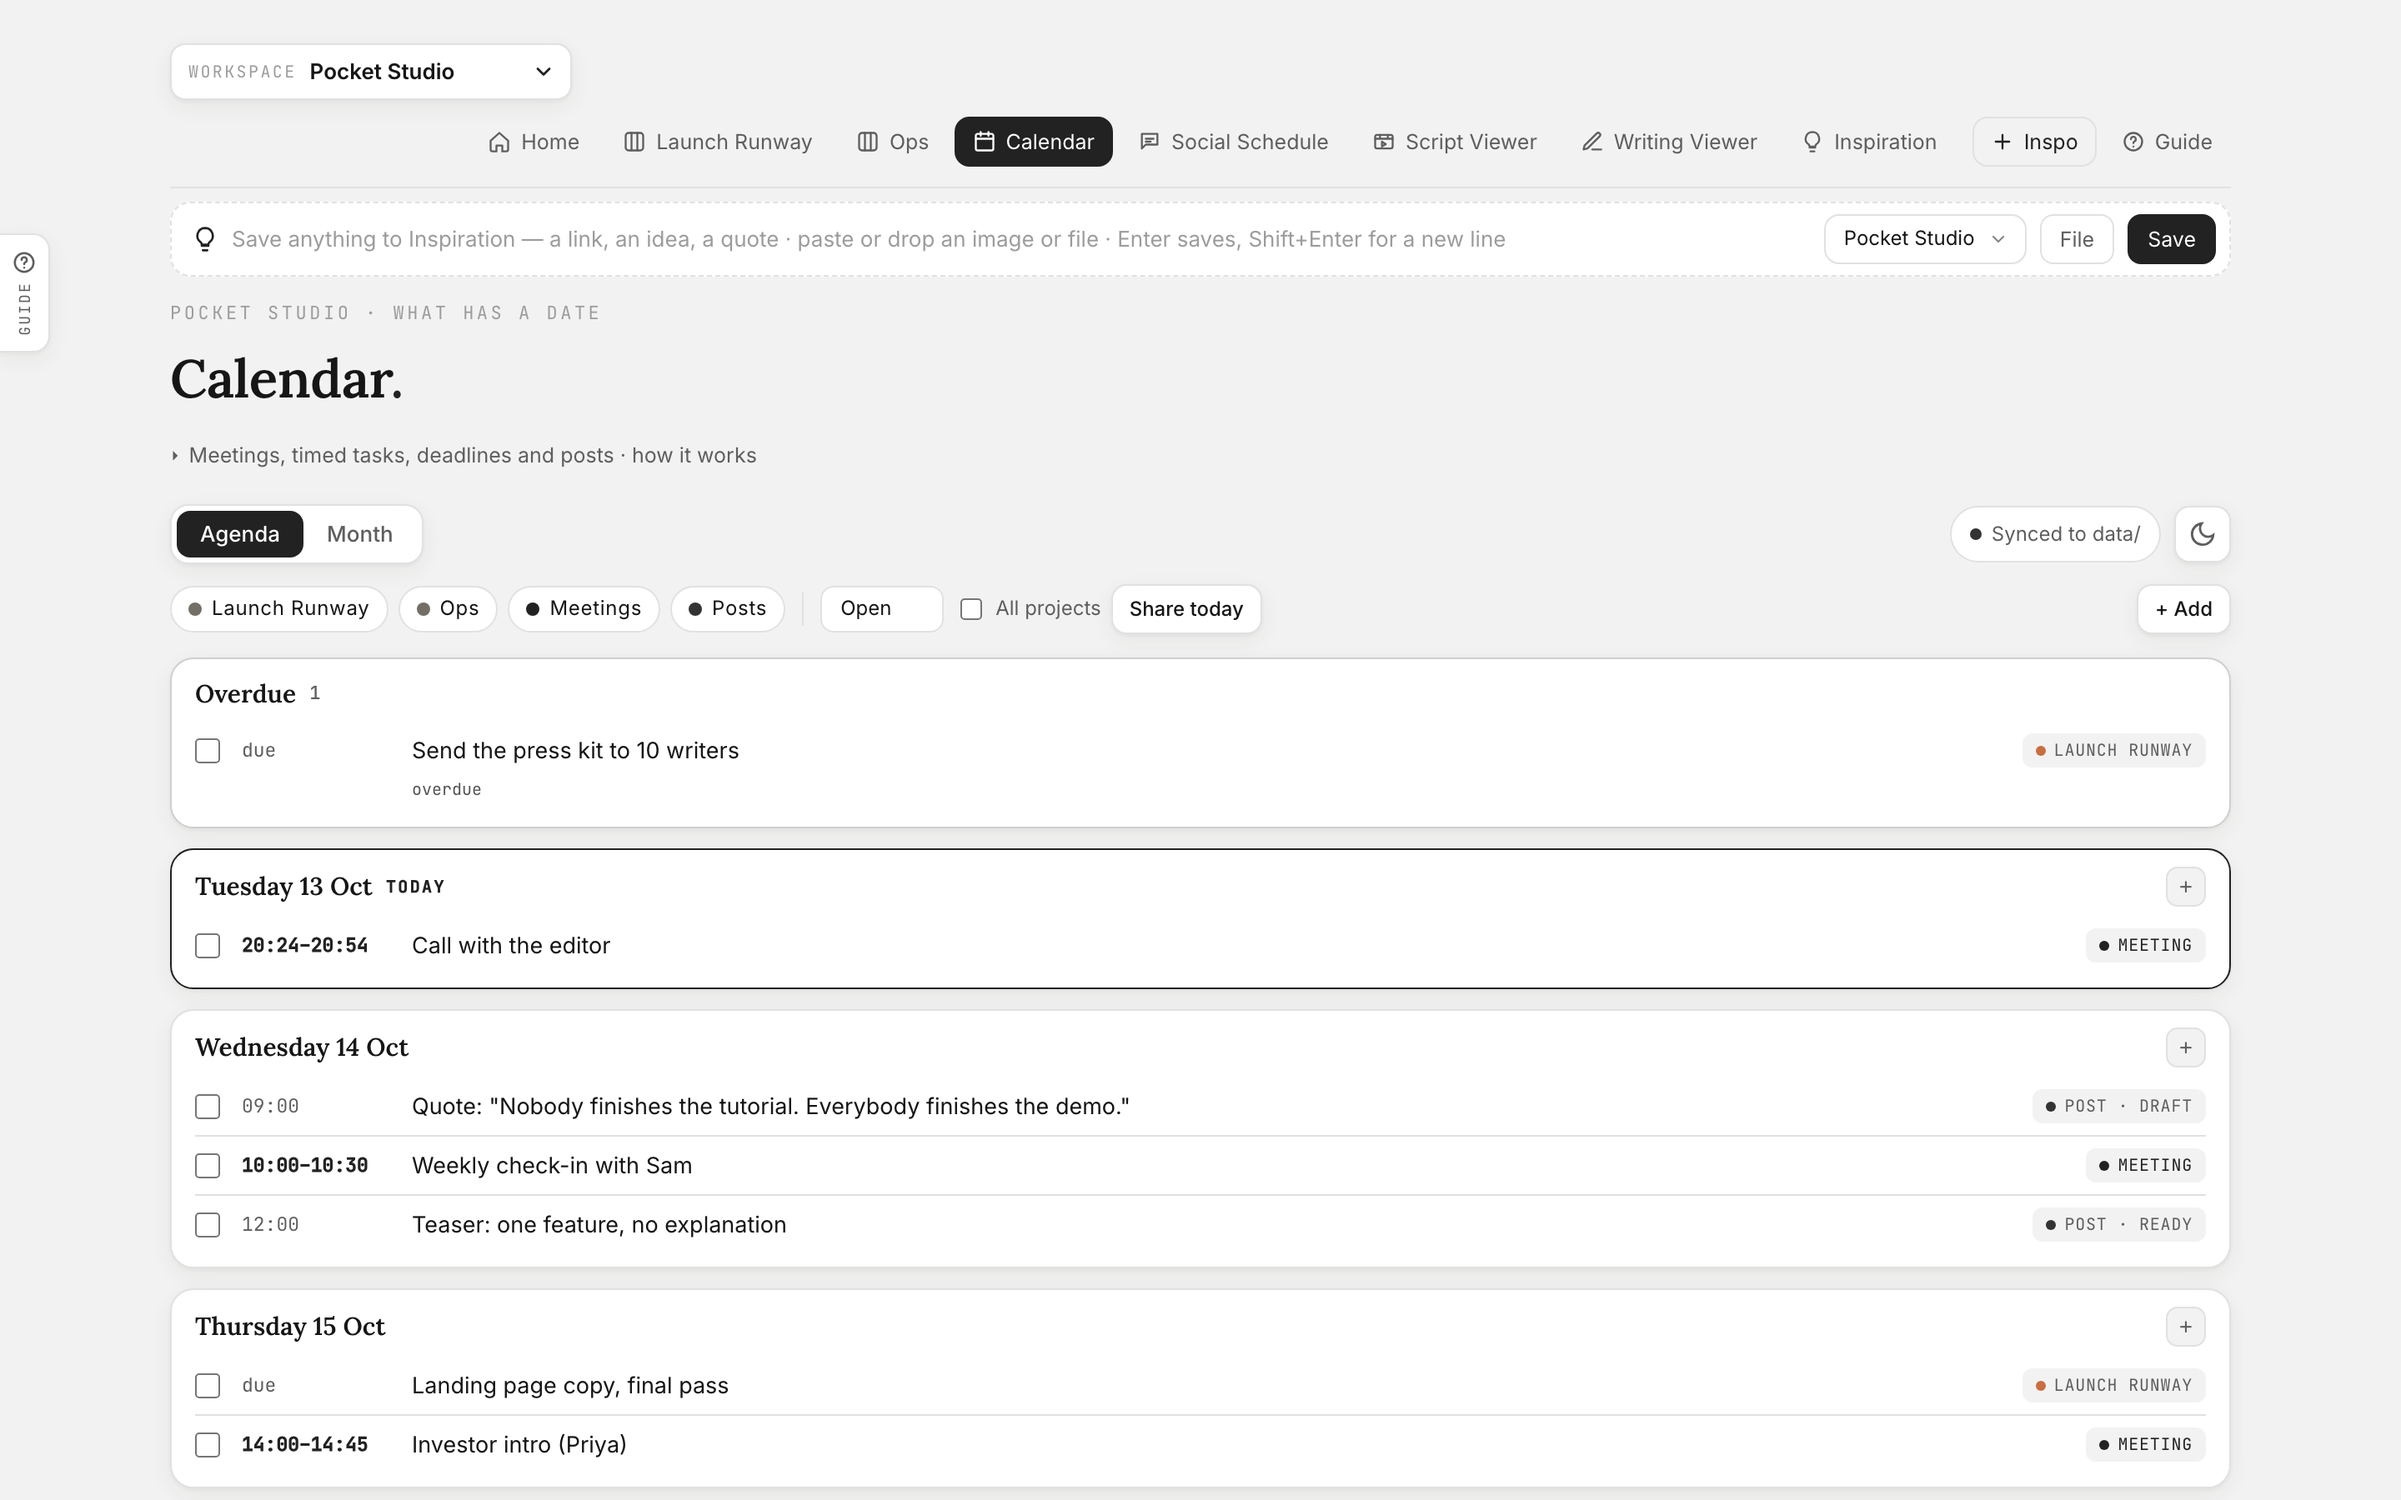
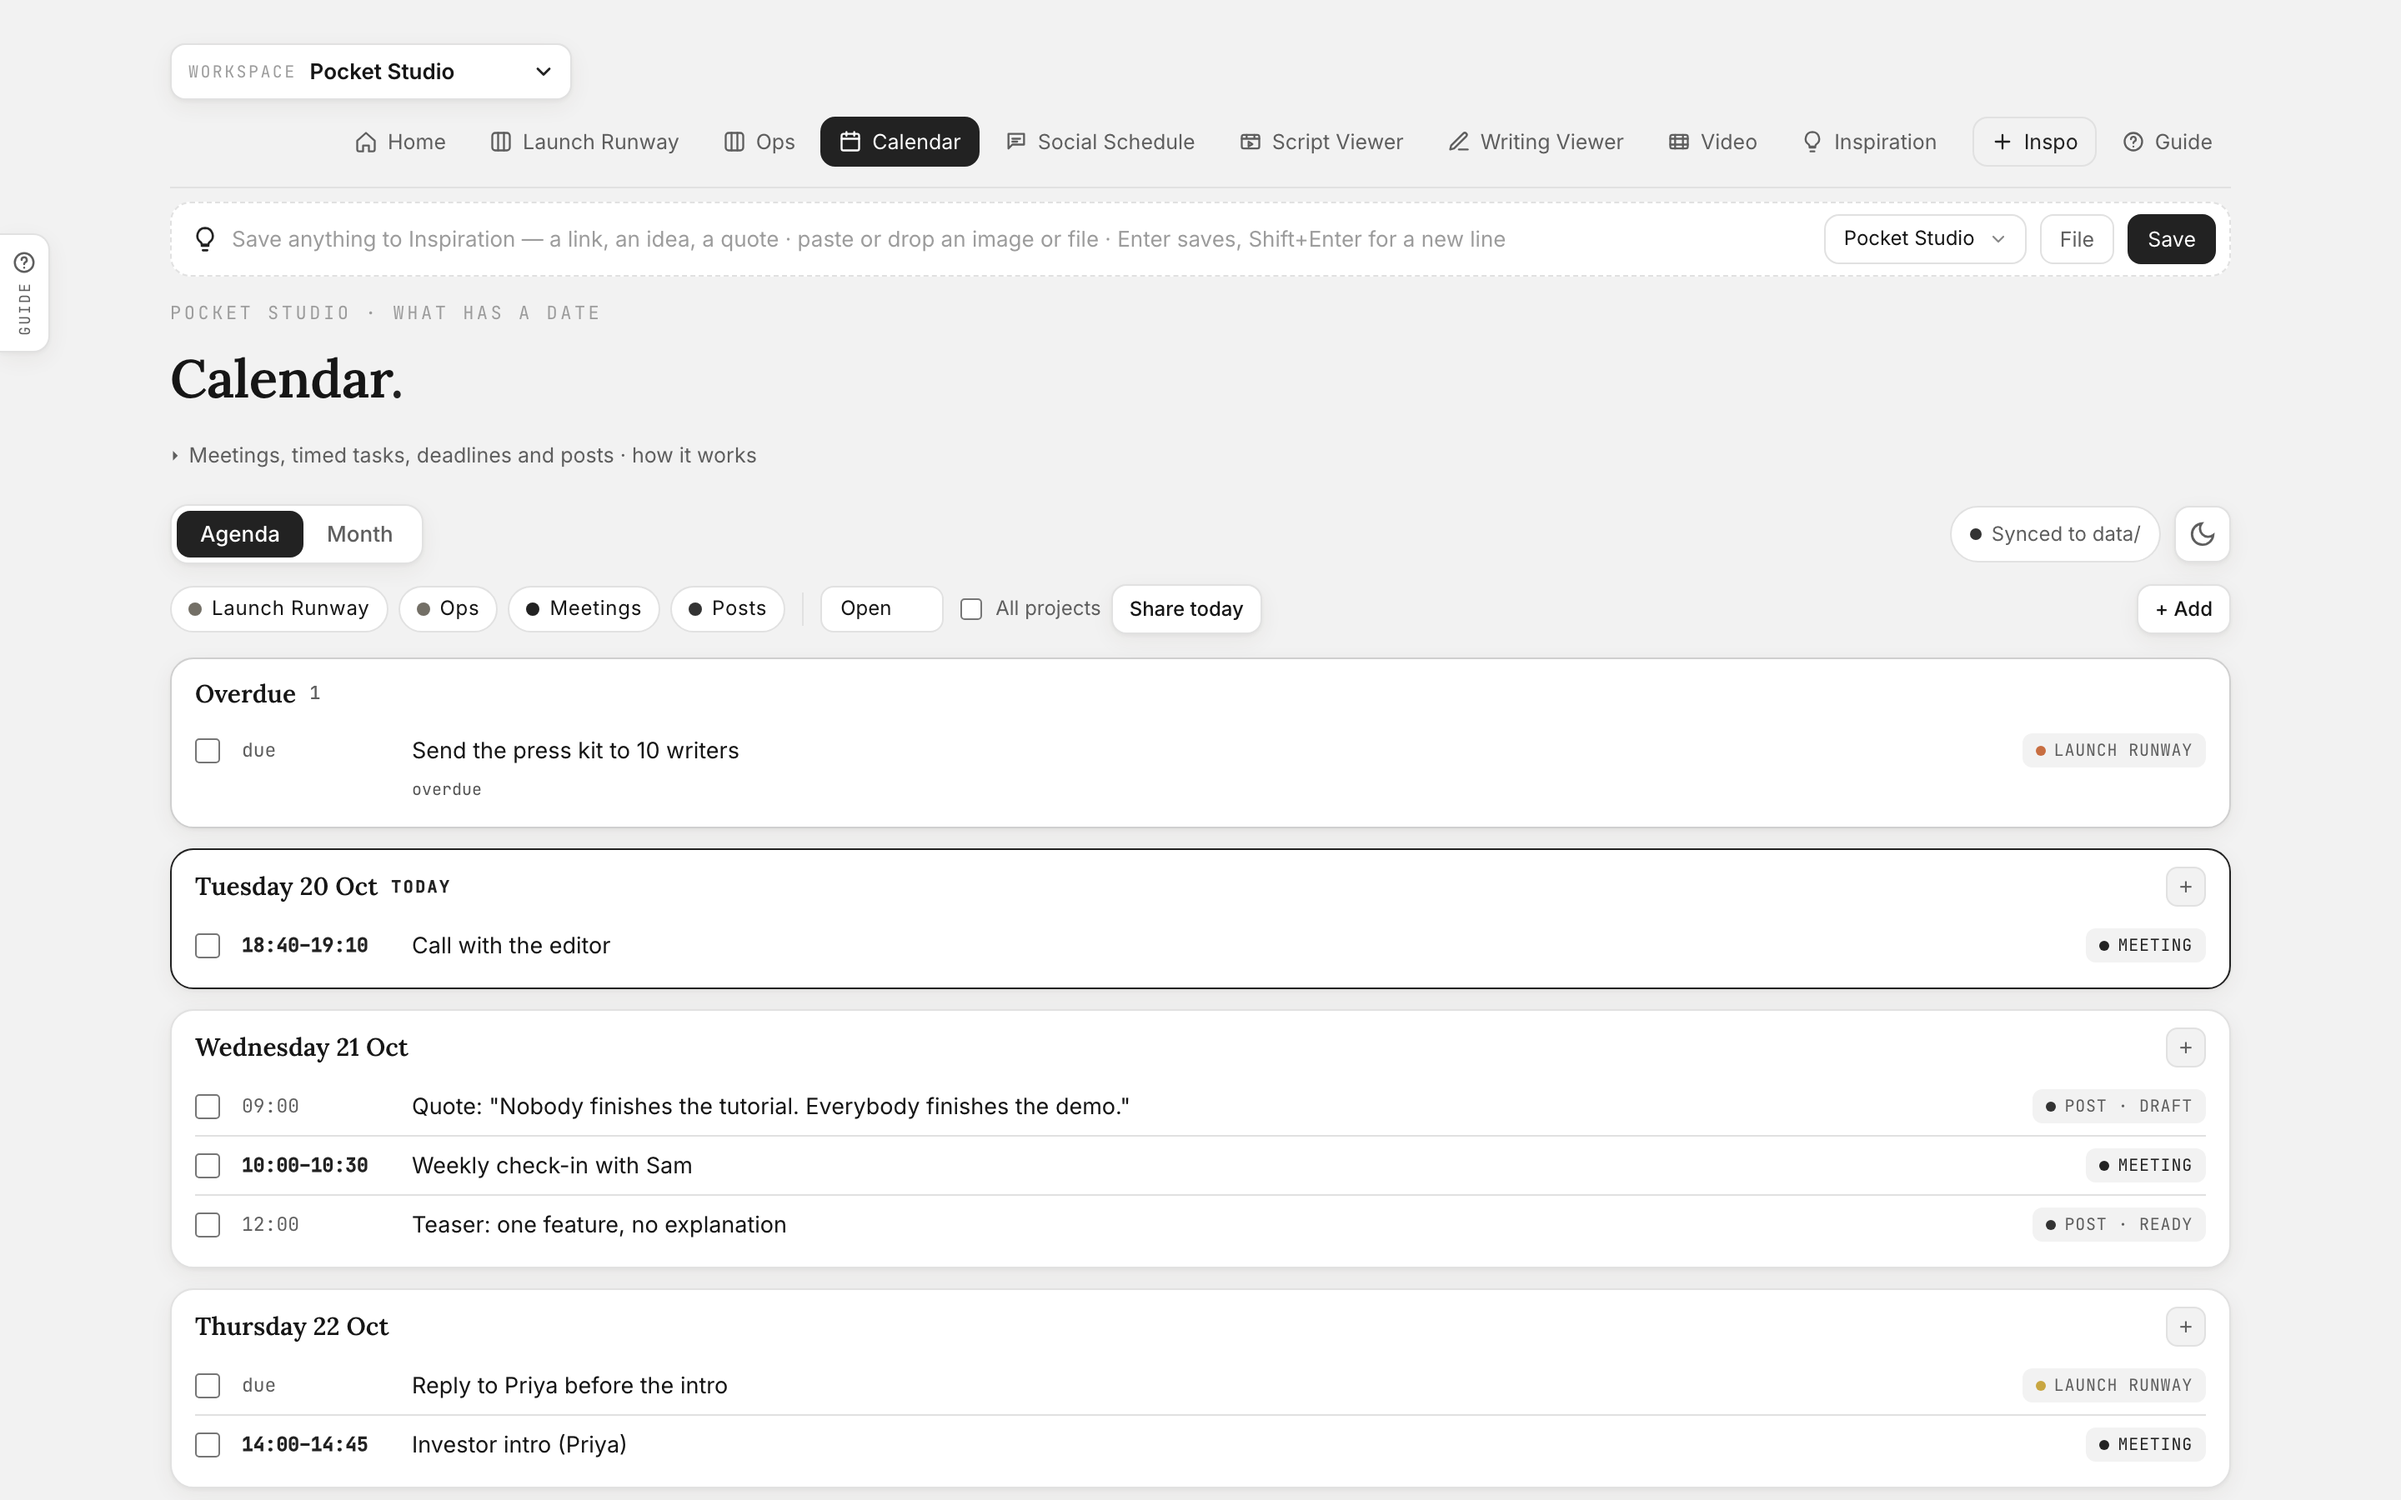
README screenshots: the Video page joins the table, the eight others reshot on the sample project; the studio sidebar label clears the Guide handle
docs/screenshots/video.png is new: the Video page on the seeded Pocket
Studio project with a synthetic take (a plain generated clip, invented
words), one sentence selected with "Cut 10 words / Keep only this", a
struck filler, the pause chips and "Review first · 1 said twice", the
task line with its pills. The other eight are reshot from the same
state, so Home, the board and the Guide agree with each other. shoot.js
gains the two shots (47-guide-ask, 48-video; TAKE and TAKE_POSTER from
the environment, since headless Chrome paints no video frame; the
take's scratch path is shown as ~/Movies/…, the one cosmetic
replacement). The README table gets the Video cell and two shorter alt
texts.

Found while shooting: the Guide handle covered the "Scripts" / "Takes"
label on the studio pages; .notes-head-label now sits past it. Two
more findings go to NEXT.md (the Guide's "No posts scheduled" beside a
Home that counts posts; the two clocks on the Video page). Reviewed by
two agents (privacy of the images, usability of the Video shot); their
must-fixes are in.

diff --git a/docs/launch/shoot.js b/docs/launch/shoot.js
@@ -107,7 +107,13 @@ var SHOTS = [
   { id: '50-recent-restore', base: BUILT, go: 'index.html', ls: BUILT_LS, profile: 'p50', before: ['done', 'Set up the waitlist form', '--as', 'agent', '--note', 'you said it shipped in our chat'], do: 'wait:3500;;click:.restore summary;;wait:300;;js:document.querySelector("#logCard").scrollIntoView({block:"center"})', budget: 12000 },
   { id: '52-about', base: BUILT, go: 'about.html', ls: BUILT_LS, h: 1300 },
   { id: '53-about-coming', base: BUILT, go: 'about.html', ls: BUILT_LS, h: 1300, do: "wait:800;;js:(function(){var h=Array.prototype.filter.call(document.querySelectorAll('h2'),function(x){return /What is coming/.test(x.textContent)})[0]; if(h) window.scrollTo(0, h.getBoundingClientRect().top + window.scrollY - 24);})()" },
-  { id: '51-guide-backup-ok', base: BUILT, go: 'index.html?guide=settings', ls: BUILT_LS }
+  { id: '51-guide-backup-ok', base: BUILT, go: 'index.html?guide=settings', ls: BUILT_LS },
+  // README: the Guide on Ask over the built Home, and the Video page on the demo take (TAKE = its id; headless Chrome paints no
+  // video frame, so TAKE_POSTER, the take's first frame exported with ffmpeg, stands in as the poster; the seed's take is synthetic,
+  // and its scratch path is shown as ~/Movies/pocket-studio/demo-take-2.mp4, the one cosmetic replacement in these shots)
+  { id: '47-guide-ask', base: BUILT, go: 'index.html?guide=ask', ls: CHAT_LS, do: 'wait:2500' },
+  { id: '48-video', base: BUILT, go: 'studio/video.html?ws=main' + (process.env.TAKE ? '&open=' + process.env.TAKE : ''), ls: Object.assign({}, BUILT_LS, { 'marathon.video.captions': '1', 'marathon.video.playerBig': '0' }), h: 1100, budget: 12000,
+    do: 'wait:3500;;' + "js:(function(){var i=ctx.tokens.findIndex(function(t){return t.kind==='word'&&t.ph===5});if(i>=0)selectSentenceOf(i)})();;wait:300;;" + (process.env.TAKE_POSTER ? "js:(function(){var v=document.getElementById('player');if(!v)return;v.pause();v.setAttribute('poster'," + JSON.stringify(process.env.TAKE_POSTER) + ");v.removeAttribute('src');v.load();var w=document.createTreeWalker(document.body,NodeFilter.SHOW_TEXT);var n;while((n=w.nextNode()))if(n.nodeValue.indexOf('/demo-take-2.mp4')>-1)n.nodeValue='~/Movies/pocket-studio/demo-take-2.mp4';})();;wait:800" : 'wait:1') }
 ];
 
 function frameUrl(s) {

diff --git a/studio/script-viewer.css b/studio/script-viewer.css
@@ -268,6 +268,7 @@ body {
   flex-shrink: 0;
 }
 .notes-head-label {
+  padding-left: 32px;   /* clear of the Guide handle (core/theme.css .guide-handle, 30 px at the left edge, top 140 px) on the three studio pages */
   font-family: var(--mono);
   font-size: 10px;
   letter-spacing: .12em;

diff --git a/README.md b/README.md
@@ -17,7 +17,7 @@ already use (ChatGPT, Claude, Claude Code, Cursor) and never type a task
 twice. Everything stays local: one folder on your computer, plain files,
 no account. Solo Ops never calls an AI for you.
 
-<p align="center"><img src="docs/screenshots/home.png" width="900" alt="Home: Mara's workspaces, today across every project, Share today, Start / Done on any task"></p>
+<p align="center"><img src="docs/screenshots/home.png" width="900" alt="Home: your workspaces, today across every project, Share today and a quick Add"></p>
 
 <table><tr>
 <td><img src="docs/screenshots/guide.png" alt="The Guide: Ask your AI in plain words, with the context attached"></td>
@@ -29,7 +29,8 @@ no account. Solo Ops never calls an AI for you.
 <td><img src="docs/screenshots/social.png" alt="Social schedule"></td>
 <td><img src="docs/screenshots/scripts.png" alt="Script viewer"></td>
 </tr><tr>
-<td colspan="2"><img src="docs/screenshots/inspiration.png" alt="Inspiration inbox: the capture strip on every page, tags, Use as task / post / script"></td>
+<td><img src="docs/screenshots/video.png" alt="Video: cut a recording by its transcript. Select words, press Delete, play it back with the cuts skipped."></td>
+<td><img src="docs/screenshots/inspiration.png" alt="Inspiration inbox: the capture strip on every page, tags, Use as task / post / script"></td>
 </tr></table>
 
 ```

diff --git a/NEXT.md b/NEXT.md
@@ -362,6 +362,8 @@ QR rendered without a dependency, capture strip and boards usable at
 
 ## Minor / issues
 
+- **Guide next-best-move vs Home (seen 2026-10-20 on the sample project):** the Guide's NEXT card says "No posts scheduled. Keep the cadence going." while Home on the same page counts 5 posts this week (drafts and ready posts with a date). The move should count posts with a date in the window, or say "none ready" instead of "none scheduled". Two clocks on the Video page can also read as a bug to a careful eye: the strip's "0:48.5 of 0:52.0" (the cut's runtime) next to the player's "0:00.0 of 0:52.0" (the playhead); label the first "cut 0:48.5".
+
 - **Video: after a decode error the black frame stays (2026-10-20):** the
   player's `error` listener sets `cannotPlay` and repaints the chrome, but
   only `paintPlayer` hides the `<video>`, so the empty frame sits above the
